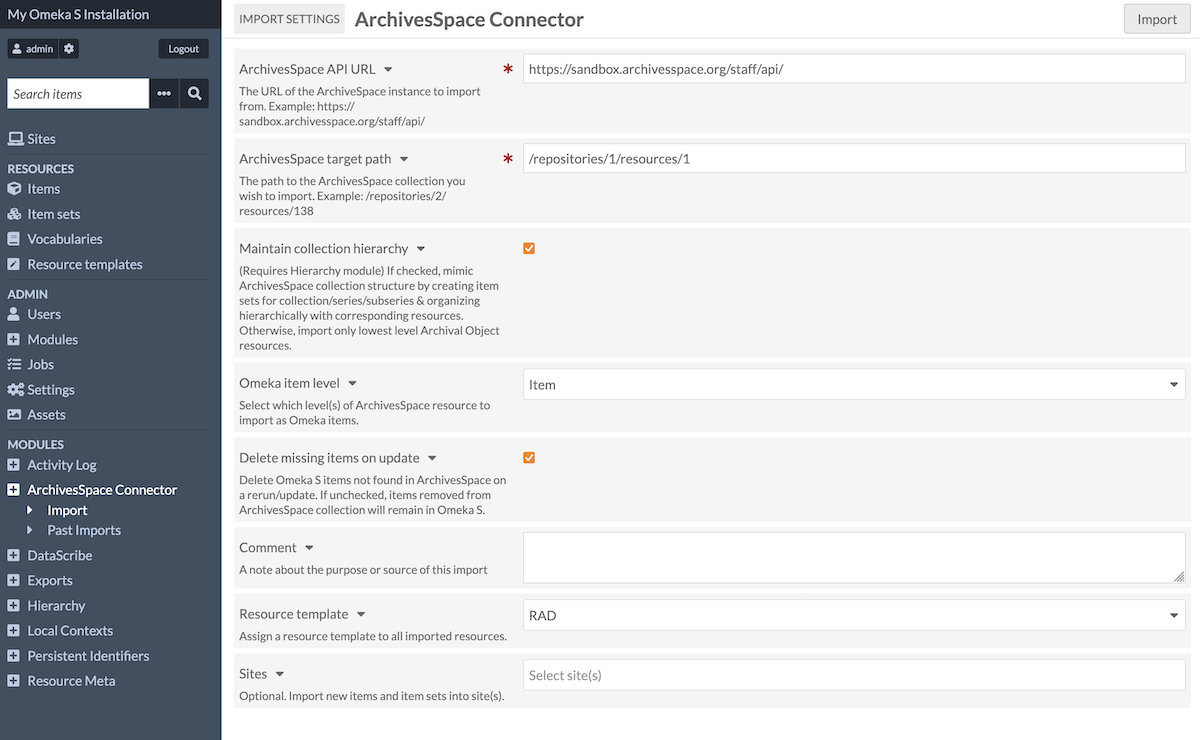
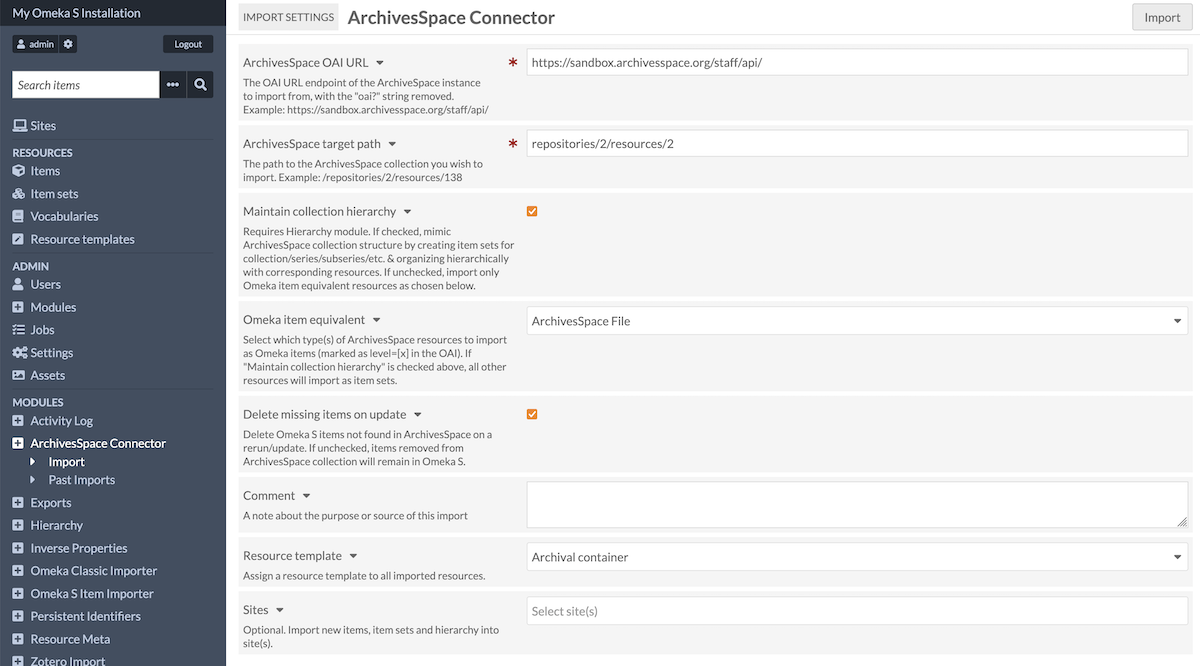
update

diff --git a/docs/modules/archivesspaceconnector.md b/docs/modules/archivesspaceconnector.md
@@ -4,23 +4,24 @@ The [ArchivesSpace Connector module](https://omeka.org/s/modules/ArchivesspaceCo
 
 After importing information, Omeka S will maintain a connection back to the original source material, which allows you to [refresh the information from the source when desired](#update-imported-resources). 
 
-Note that Omeka S cannot import digital materials from ArchivesSpace at this time, only textual metadata. 
+!!! note
+	Note that Omeka S cannot import digital materials from ArchivesSpace at this time, only textual metadata. 
 
-This connector relies on access to the ArchivesSpace OAI-PMH interface. You will need an ArchivesSpace installation with a public OAI endpoint, and a precise set of configurations, to import materials correctly.
+This connector relies on access to the ArchivesSpace OAI-PMH interface. You will need an ArchivesSpace installation with a public OAI endpoint to import materials correctly.
 
 ![](modulesfiles/aspace_public.png)
 
 ## Configure your ArchivesSpace installation
 
-First, ensure your ArchivesSpace website has the [OAI endpoint enabled](https://docs.archivesspace.org/customization/configuration/#urls-for-archivesspace-components){target=_blank}. `enable_oai` and `oai_url` are both set in the `config/config.rb` file. Your managed hosting provider may not give you access to this file, and may or may not edit it by request. 
+First, confirm your ArchivesSpace website has the [OAI endpoint enabled](https://docs.archivesspace.org/architecture/oai-pmh/){target=_blank}. This is usually enabled by default. You can check your settings in the Staff Interface (at `yourASurl/staff/oai_config/edit` or similar). 
 
-The `oai_url` endpoint this module uses should end in `oai?`. Verify that your OAI endpoint is properly configured and accessible by visiting \[`oai_url`\]`verb=Identify`. You should receive an XML response with basic information about your ArchivesSpace OAI configuration (NOTE: remove the `oai?` suffix from the `oai_url` when entering into **ArchivesSpace OAI URL** below).
-
-Next, we recommend your collections be designed to accommodate Omeka S's data model. 
+The `oai_url` endpoint this module uses should end in `oai?`. Verify that your OAI endpoint is properly configured and accessible by visiting `yourOAIurl/oai?verb=Identify`. You should receive an XML response with basic information about your ArchivesSpace OAI configuration. 
 
 ### ArchivesSpace objects
 
-Generally, all containers (collections, series, sub-series, files, etc.) should be imported as Omeka item sets, with the Hierarchy module installed and active in order to organize those item sets into a hierarchy that matches the ArchivesSpace configuration. 
+We recommend your collections be designed to accommodate Omeka S's data model. 
+
+Generally, all ArchivesSpace containers (collections, series, sub-series, files, etc.) should be imported as Omeka item sets, with the Hierarchy module installed and active in order to organize those item sets into a hierarchy that matches the ArchivesSpace configuration. 
 
 Your lowest-level ArchivesSpace objects should be either "files" or "items". These two object types can be imported as Omeka items, depending on the collection and your intentions. If the collection is already described down to an item level, using ArchivesSpace's "item" identifier, those can easily be imported as Omeka items. 
 
@@ -28,9 +29,9 @@ If the collection is described to a higher level, you can choose whether "files"
 
 ### Metadata inheritance
 
-ArchivesSpace has a configuration setting, enabled by default, to allow higher-level metadata to display on lower-level objects: "Inheritance". When this is active, the API output of ArchivesSpace sends information without context: that is, a collection-level extent will be duplicated in the metadata for all its lower-level objects that do not have their own extent - but it is not represented as "From the collection" in the API. 
+ArchivesSpace has a configuration setting, enabled by default, to allow higher-level metadata to display on lower-level objects: "Inheritance". When this is active, the OAI output of ArchivesSpace sends information without context. That is, a collection-level extent will be duplicated in the metadata for all its lower-level objects that do not have their own extent, but it is not represented as "From the collection" in the OAI. 
 
-Thus, we recommend turning this setting off when importing into Omeka, to ensure metadata is not replicated out of context. You can read about how to disable this setting in your installation in the [ArchivesSpace technical documentation](https://archivesspace.github.io/tech-docs/architecture/public/){target=_blank} - look for the "Inheritance" section. The [file to be edited is called `config-defaults.rb`](https://github.com/archivesspace/archivesspace/blob/master/common/config/config-defaults.rb){target=_blank}. 
+Thus, we recommend turning this setting off when importing into Omeka, to ensure metadata is not replicated out of context. You can read about how to disable this setting in your installation in the [ArchivesSpace technical documentation](https://archivesspace.github.io/tech-docs/architecture/public/){target=_blank}: look for the "Inheritance" section. The [file to be edited is called `config-defaults.rb`](https://github.com/archivesspace/archivesspace/blob/master/common/config/config-defaults.rb){target=_blank}. 
 
 ## Configure your Omeka installation
 
@@ -46,14 +47,14 @@ In Omeka S, navigate to the section labelled "ArchivesSpace Connector" under Mod
 
 On the import form, enter the following information:
 
-* **ArchivesSpace OAI URL**: The entire OAI endpoint URL, including the `https://`, with `oai?` removed from the end.
+* **ArchivesSpace OAI URL**: The entire OAI endpoint URL, including the `https://`, with `oai?` removed from the end. For example if your ArchivesSpace installation has default settings, and if your intended collection for import is at "https://findingaids.lib.ouruniversity.edu/repositories/1/resource/1", enter "https://findingaids.lib.ouruniversity.edu/".
 * **ArchivesSpace target path**: The portion of the URL for a specific collection. This will be in the form of `/repositories/1/resource/1`. 
 * **Maintain collection hierarchy**: A checkbox to enable the import's connection with the Omeka S Hierarchy module. If unchecked, item sets will not be created with this import, and no hierarchy will be created via the [Hierarchy module](hierarchy.md). 
 * **Omeka item level**: Choose which of ArchivesSpace's object options will be imported as Omeka S items. You can choose "Items," "Files," or both. If you choose Items, higher-level containers objects (including Files) will be imported as Omeka item sets. 
 * **Delete missing items on update**: A checkbox to change how re-running an import will behave. If checked, an item created on an earlier import but deleted in ArchivesSpace will be deleted in Omeka. If unchecked, updates will not delete missing objects. 
 * **Comment**: A text field to provide a reminder to yourself or others about the details of this import.
 * **Resource template**: You can choose to apply one resource template to all of the items and item sets created by the import process. If you wish to use more than one (for example, one for created items and another for created item sets) you can batch-edit the resources after the import has completed, by using the links in the Past Imports table (see below). 
-* **Sites**: Add imported resources (items, item sets, and hierarchies) to the following sites immediately. This field loads all sites by default. Remove them by clicking on the X; add sites by clicking in the field - a dropdown will appear. 
+* **Sites**: Add imported resources (items, item sets, and hierarchies) to the following sites immediately. This field loads all sites by default. Remove them by clicking on the X. Add sites by clicking in the field; a dropdown will appear. 
 
 Click the "Import" button. If the information above has been correctly entered, you will see a new page with a green banner at the top indicating the Job number of the import. 
 
@@ -74,11 +75,11 @@ Then, ensure that the site-specific settigs for hierarchies is how you would lik
 
 ## Past Imports
 
-The "Past Imports" page displays a table of existing ArchivesSpace connections, with the **Job ID** for the import, a radial option to **Undo** or **Re-run** the import, the repository’s **ArchivesSpace Collection** with a link to the API output for comparison (displayed as collection name if found), any **Comment** set to import, the number of **Resources** imported with a link to the advanced search results, the **Date** of the import, the import **Status**, and the **Owner** who initiated the import.
+The "Past Imports" page displays a table of existing ArchivesSpace connections, with the **Job ID** for the import, a radial option to **Undo** or **Re-run** the import, the repository’s **ArchivesSpace Collection** with a link to the OAI-PMH output for comparison (displayed as collection name if found), any **Comment** set to import, the number of **Resources** imported with a link to the advanced search results, the **Date** of the import, the import **Status**, and the **Owner** who initiated the import.
 
 ![Table of past imports.](modulesfiles/aspace_past.png)
 
-You can see the API output directly by clicking on the links under the "ArchivesSpace Collection" column. This can help you triangulate any errors that appear during the process, such as higher-level metadata appearing on lower-level objects.
+You can see the OAI output directly by clicking on the links under the "ArchivesSpace Collection" column. This can help you triangulate any errors that appear during the process, such as higher-level metadata appearing on lower-level objects.
 
 ## Update imported resources
 
